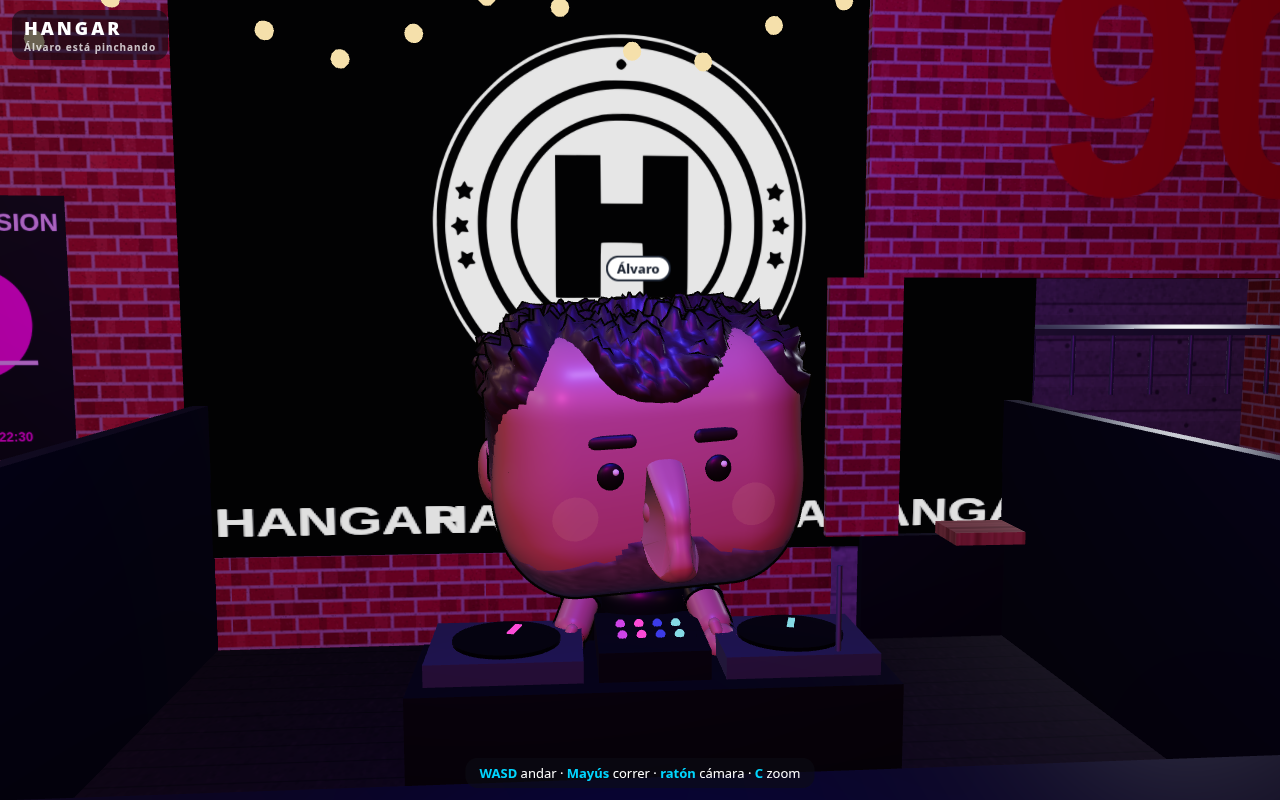
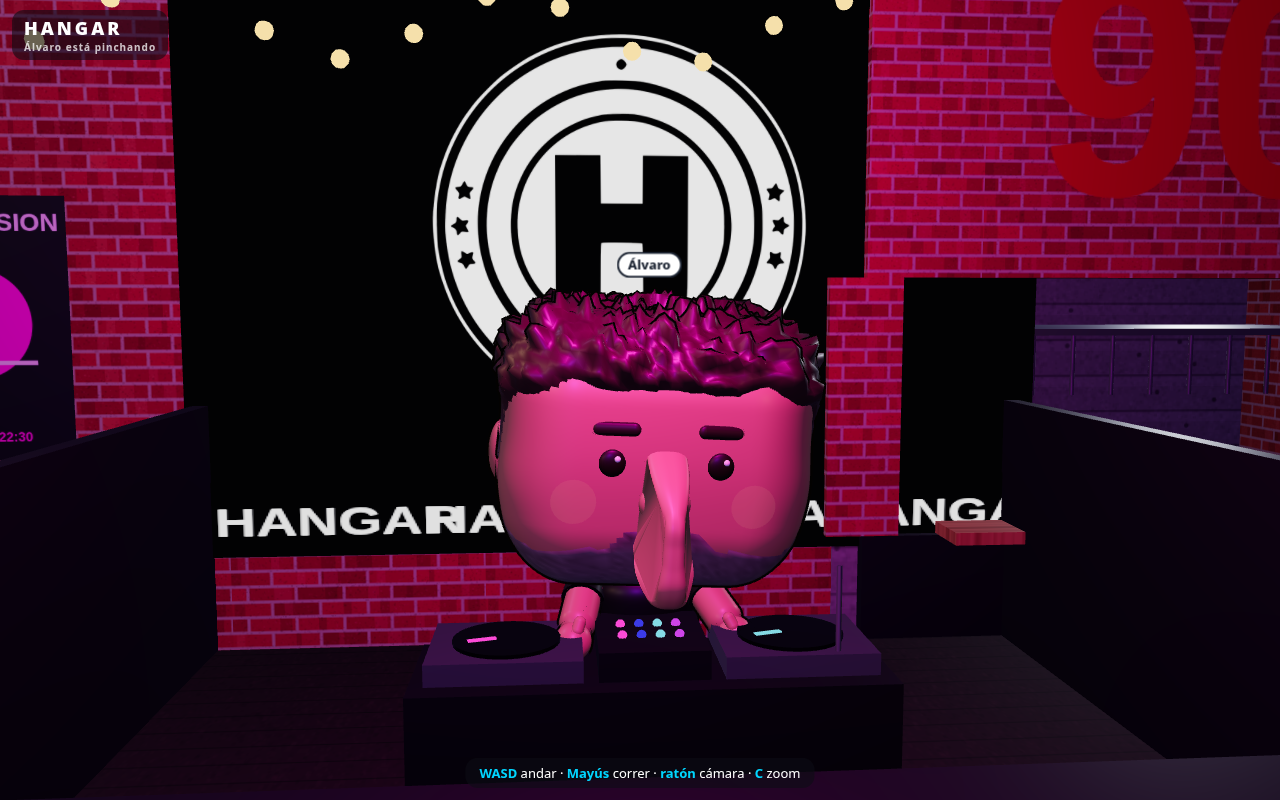
Álvaro: pelo sin entradas, nariz aguileña más grande

Changed region(s): [[0.2812, 0.0, 0.9062, 0.8438], [0.0938, 0.0625, 0.1562, 0.4688], [0.3438, 0.9688, 0.6562, 1.0]]

diff --git a/index.html b/index.html
@@ -440,7 +440,7 @@ function makePopCharacter(userCfg) {
       const P = (u, v) => new T3.Vector2(v * L, -u * dy); // u: 0 raíz → 1 base, v: salida (m)
       const sh = new T3.Shape(); sh.moveTo(-0.03, 0.01);
       sh.lineTo(P(0, 0.0).x, P(0, 0.0).y);
-      const hp = B.hump || 1, MV = 0.125; { const pts = [P(0, 0), P(0.14, 0.33 * MV), P(0.3, 0.6 * MV * hp), P(0.48, 0.79 * MV * hp), P(0.66, 0.9 * MV), P(0.82, 0.98 * MV), P(0.92 + 0.02 * HK, 1.0 * MV), P(1.0 + 0.03 * HK, 0.94 * MV), P(1.06 + 0.04 * HK, 0.8 * MV), P(1.04 + 0.03 * HK, 0.62 * MV), P(0.98 + 0.01 * HK, 0.42 * MV), P(0.92, 0.22 * MV), P(0.88, 0.06 * MV), P(0.86, 0.0)].map(v => new T3.Vector3(v.x, v.y, 0));
+      const hp = B.hump || 1, MV = 0.125; /* giba monótona (sin muesca): los puntos posteriores nunca quedan por debajo de la giba */ const v3 = 0.79 * hp, v4 = Math.max(0.9, v3 + 0.03), v5 = Math.max(0.98, v4 + 0.025), vt = Math.max(1.0, v5 + 0.02), ts = vt; { const pts = [P(0, 0), P(0.14, 0.33 * MV * Math.min(hp, 1.25)), P(0.3, 0.6 * MV * hp), P(0.48, v3 * MV), P(0.66, v4 * MV), P(0.82, v5 * MV), P(0.92 + 0.02 * HK, vt * MV), P(1.0 + 0.03 * HK, 0.94 * ts * MV), P(1.06 + 0.04 * HK, 0.8 * ts * MV), P(1.04 + 0.03 * HK, 0.62 * ts * MV), P(0.98 + 0.01 * HK, 0.42 * MV), P(0.92, 0.22 * MV), P(0.88, 0.06 * MV), P(0.86, 0.0)].map(v => new T3.Vector3(v.x, v.y, 0));
         for (const q of new T3.CatmullRomCurve3(pts, false, 'centripetal').getPoints(90)) sh.lineTo(q.x, q.y); } sh.lineTo(-0.03, P(0.86, 0).y); sh.lineTo(-0.03, 0.01);
       const wid = 0.02 * Wd; const g = new T3.ExtrudeGeometry(sh, { depth: wid, bevelEnabled: true, bevelThickness: 0.042 * Wd, bevelSize: 0.024, bevelOffset: -0.012, bevelSegments: 10, curveSegments: 48, steps: 1 });
       g.translate(0, 0, -wid / 2); g.rotateY(-Math.PI / 2); // x del perfil → +z (hacia fuera), extrusión → x
@@ -728,12 +728,12 @@ const T3 = window.THREE;
 const CFG = {
   id: 'alvaro', name: 'Álvaro', skin: '#cf9878', cheek: '#d9846c', cheekOpacity: 0.12,
   head: { w: 0.54, h: 0.46, d: 0.46, r: 0.25 },
-  hair: { style: 'spiky', color: '#4e3d30', side: '#857c74', volume: 0.9, recede: 1 },
+  hair: { style: 'spiky', color: '#4e3d30', side: '#857c74', volume: 0.9, recede: 0 },
   beard: { style: 'jawStubble', color: '#958b82', dark: '#4f453e' },
   brows: { color: '#3a2b21', thick: 1.2, tilt: -0.05, y: 0.29 },
   eyes: { color: '#2a1a10', size: 0.05, squint: 0.32 },
   mouth: { type: 'lip', color: '#9a5a4e' },
-  nose: { size: 1.2, big: { len: 1.95, w: 1.62, hump: 1.1, hook: 1.55, h: 1.12 } },
+  nose: { size: 1.3, big: { len: 2.2, w: 1.8, hump: 1.3, hook: 2.9, h: 1.36 } },
   shirt: { type: 'tshirt', color: '#141416', sleeves: 'short' },
   pants: { color: '#22252c' }, shoes: { color: '#121212' },
 };
